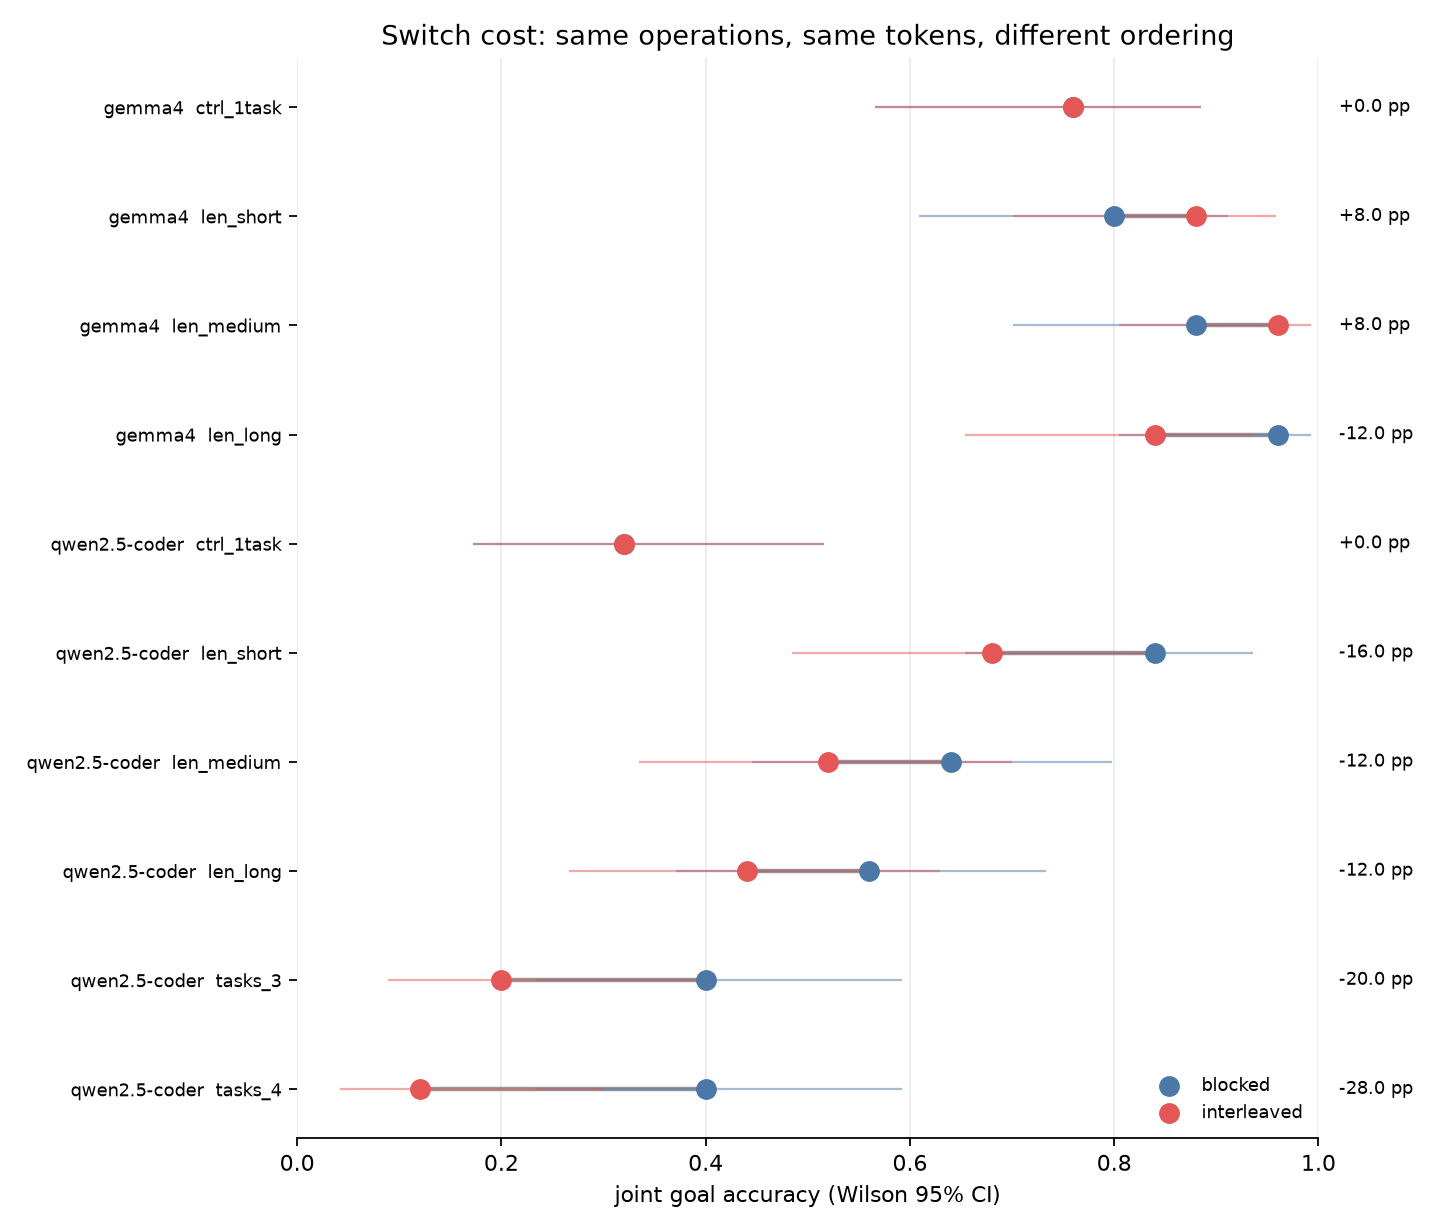
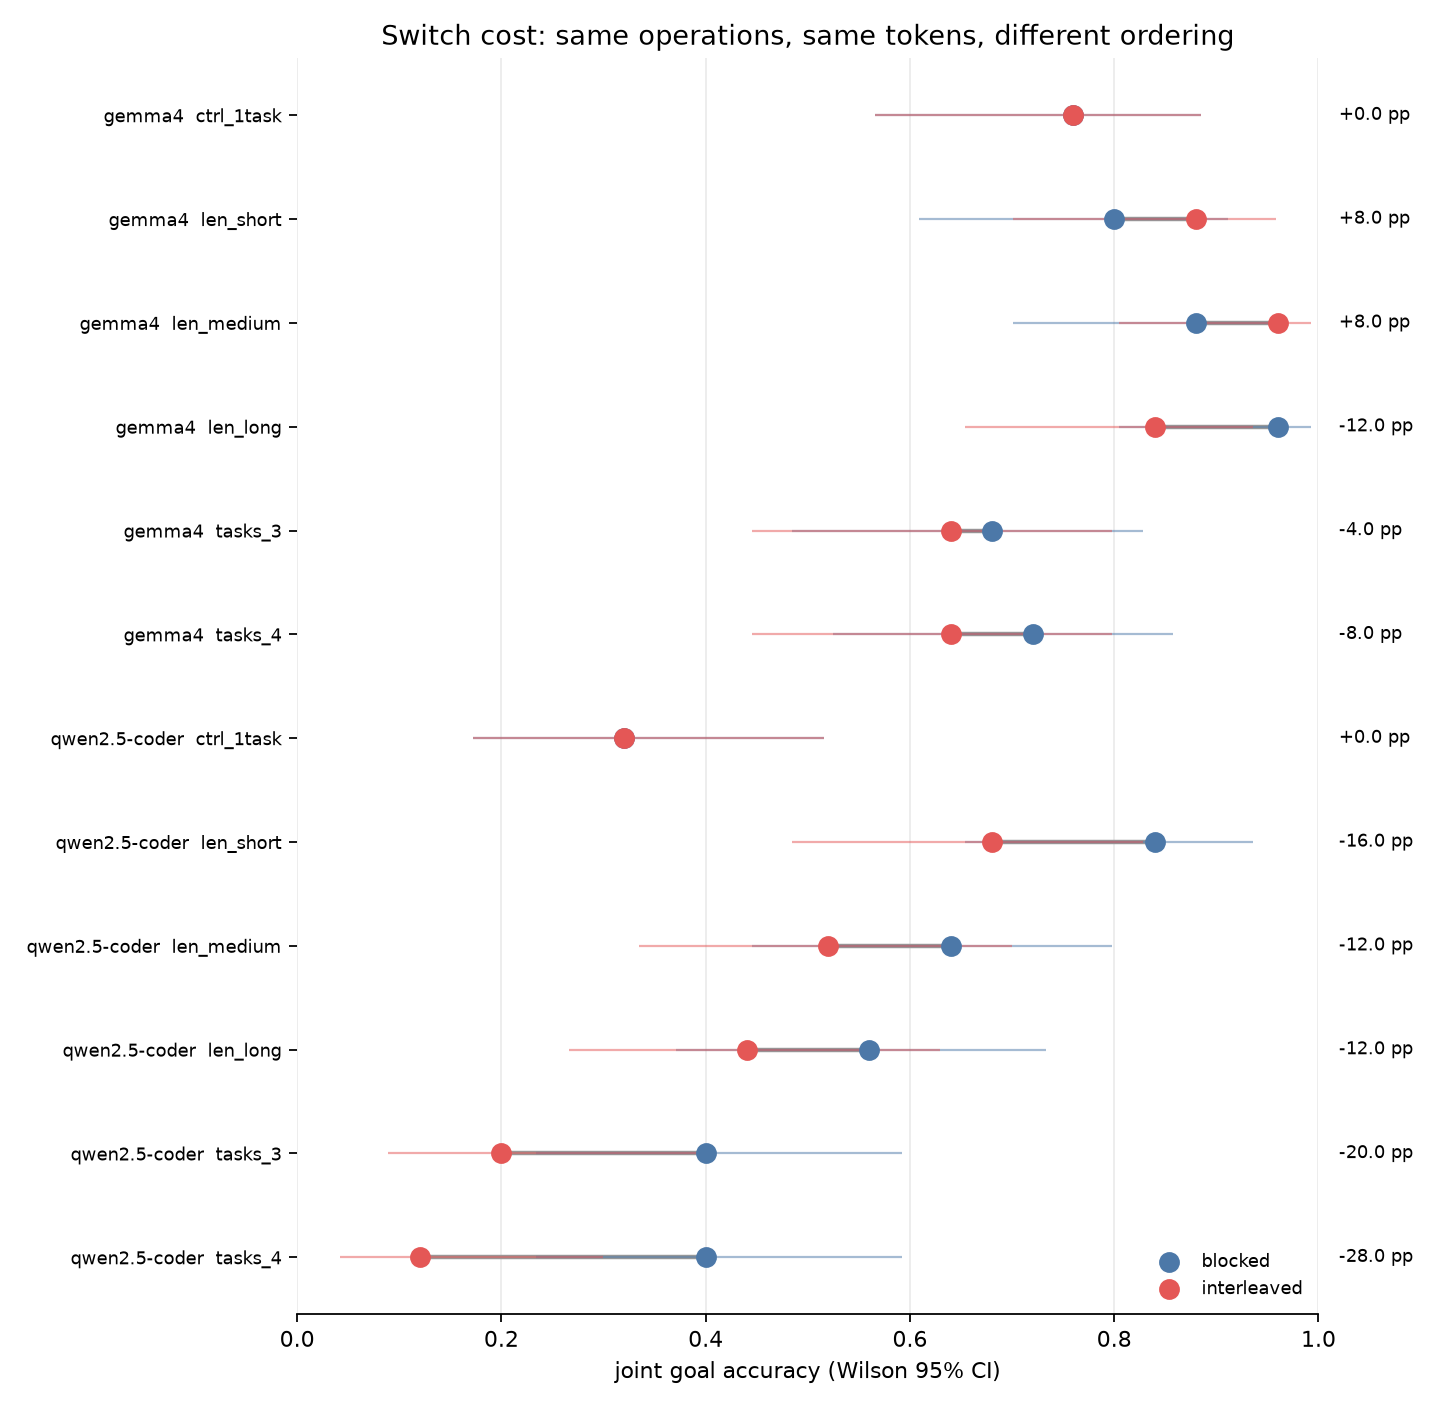
readme: replace the v1 findings prose, which contradicted the v2 headline
"What we found" still described v1 and asserted that misattribution never
happened once -- four lines below a v2 headline saying it appears immediately.
Rewritten around the dissociation both models show: switch cost tracks live-state
count and is flat in context length, with the magnitude strongly model-specific.

Also corrects two commentary paragraphs:
- the primary is -12.0pp p=0.508 (b=6/c=3), not v1's -3.3pp p=1.00
- noise sensitivity now shows the two models moving in OPPOSITE directions across
  the length arm (qwen 0.840->0.560, gemma 0.800->0.960), which sharpens the point
  that "no length effect" is about the ordering delta, not about difficulty

Claude-Session: https://claude.ai/code/session_01GsfWd5EhxNP3EDk11DMtDE

diff --git a/README.md b/README.md
@@ -37,14 +37,27 @@ conversation and misattribution appears immediately — 8 events in 50 conversat
 every one of them a grocery item landing on the hardware list, versus **0 in 300**
 two-task conversations. *The v1 zero was a property of the instrument, not of the model.*
 
-**What we found.** Across 480 conversations at *exactly* matched token counts (480/480
+**What we found.** Across 600 conversations at *exactly* matched token counts (600/600
 verified, zero drift), the **pre-registered primary comparison found no detectable switch
-cost** — and at n=30 it had no power to (§9). What the exploratory cells show is that
-switch cost is **model-specific rather than inevitable**: `qwen2.5-coder:7b` loses up to
-33 points to interleaving alone (p=0.013), while `gemma4:12b` shows no detectable cost in
-any condition. The mechanism is not what the design predicted. **Misattribution — the
-failure the whole taxonomy was built around — never happened once.** What interleaving
-increases is the model treating explicitly-negated statements as real operations.
+cost** — −12.0pp at p=0.508 — and at n=25 per cell it had little power to (§9). The
+exploratory cells are where the structure is, and it is a **dissociation**: switch cost
+tracks the number of live states and is flat in context length.
+
+| arm | `qwen2.5-coder:7b` | `gemma4:12b` |
+|---|---|---|
+| length (0 / 40 / 120 noise turns) | −16 / −12 / −12 pp | +8 / +8 / −12 pp |
+| task count (2 / 3 / 4 tasks) | −12 / −20 / **−28** pp | +8 / −4 / −8 pp |
+
+Both models degrade monotonically as live states are added, and neither shows a length
+trend. The magnitude is strongly model-specific — qwen loses 28 points at four tasks
+(p=0.039), gemma 8 — so this is a shape both models share, not a constant.
+
+**Read the task-count arm with its confound attached.** Under the canonical composition
+the number of *same-kind pairs* rises in lockstep with task count, and a same-kind pair is
+the only place a misattribution can occur. The `same_kind_2` cell exists to separate them
+(§5b). Splitting the events by ordering is deflationary too: most misattribution happens
+in **blocked** ordering, where same-kind lists never interleave. Interleaving costs
+accuracy; similarity costs attribution; the task-count cells vary both at once.
 
 ![switch cost](results/dumbbell.png)
 
@@ -148,11 +161,13 @@ analysis in [`results/POWER.md`](results/POWER.md).
 Three things to read carefully:
 
 **The primary is null, and I am reporting it as the primary.** `len_medium` came back at
-−3.3pp, p=1.00. Its discordant counts were b=6, c=5 — interleaving broke six
-conversations and fixed five. That is not "ordering did not matter"; it is two effects
-cancelling in a sample with ~20% power (see [POWER.md](results/POWER.md)). Promoting
-`len_long` to the headline because it reached p=0.013 is precisely what pre-registration
-exists to prevent.
+−12.0pp, p=0.508. Its discordant counts were b=6, c=3 — interleaving broke six
+conversations and fixed three, and nine discordant pairs cannot separate a real 12-point
+effect from noise. A 12-point point estimate with a CI spanning [−36, +12] is not evidence
+of an effect and not evidence of its absence; it is an underpowered cell
+(see [POWER.md](results/POWER.md)). `tasks_4` reached p=0.039, and promoting it to the
+headline for that reason is precisely what pre-registration exists to prevent — so it is
+reported below as exploratory, with its confound attached.
 
 **Ordering-stability differs sharply between models.** Discordance — the share of
 conversations whose outcome *changed* with ordering — runs 27–47% for
@@ -161,10 +176,15 @@ accuracy deltas, and only a paired design can see it. Caveat in force: the two m
 differ in family, instruction tuning and size simultaneously, so this is **descriptive,
 not evidence about scale**.
 
-**Noise sensitivity is a property of the model, not the task.** The same 40 padding
-turns, on the same seeds, cost `qwen2.5-coder:7b` 43 points of accuracy (0.90 → 0.47)
-and cost `gemma4:12b` nothing (0.90 → 0.97). I initially wrote this up as a general
-finding about context padding from the qwen data alone; it is not general.
+**Noise sensitivity is a property of the model, not the task, and the two models move in
+opposite directions.** Blocked accuracy across the length arm (0 → 40 → 120 padding turns,
+identical seeds): `qwen2.5-coder:7b` falls **0.840 → 0.640 → 0.560**, while `gemma4:12b`
+*rises* **0.800 → 0.880 → 0.960**. Padding costs one model 28 points and gains the other
+16. I originally wrote this up as a general finding about context padding from the qwen
+data alone, before gemma had run; it is not general, and the v2 data make the sign
+disagreement sharper than v1 did. Note what this does to the length arm: "no length
+effect" is a statement about the *ordering delta*, not about difficulty — length moves
+accuracy a great deal, just not the gap between orderings.
 
 ### What actually goes wrong
 
